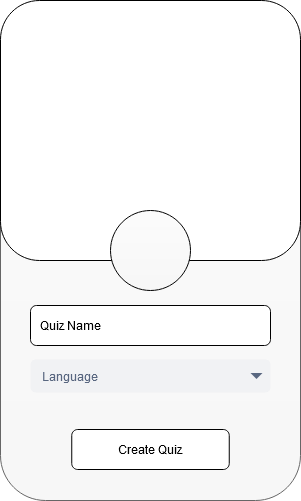
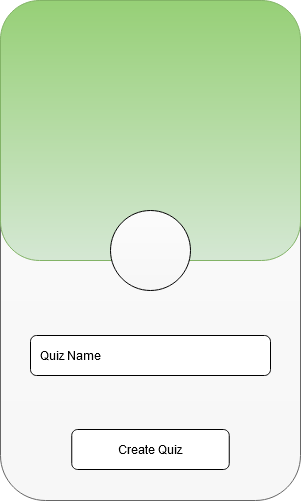
Added readme and changed a couple images

diff --git a/README.md b/README.md
@@ -1,1 +1,88 @@
-# sep2020-quizz-tim-evren
+# PUB Quiz - Web Application
+
+The Quizzer is a web application that can be used in bars, sports canteens and maybe even prisons to play quizzes as a team. A pub quiz, basically.
+
+---
+
+## Included libraries
+
+The following libraries are used by and included in the extension as-is:
+
+- jQuery: [http://jquery.com/](http://jquery.com/)
+- React: [https://reactjs.org/](https://reactjs.org/)
+- Webpack: [https://webpack.js.org/](https://webpack.js.org/)
+- Bootstrap from Twitter: [http://twitter.github.com/bootstrap/](http://twitter.github.com/bootstrap/)
+- Font Awesome: [http://fontawesome.io/](http://fontawesome.io/)
+
+---
+
+## Authors
+
+- Evren Kilic: [https://github.com/EvrenKilic](https://github.com/EvrenKilic)
+- Tim Beeren: [https://github.com/TBeeren](https://github.com/TBeeren)
+
+---
+
+## Documentation
+- REST API Specification: [REST_API_Specification.md](./doc/rest_api.md)
+- Web Socket Specification: [Web_Socket_Specification.md](./doc/websocket_specification.md)
+
+---
+
+## Wireframes 
+The wireframe are meant to demonstrates what interface elements that exist on key pages will look like.
+
+
+### Quiz Master
+The annotated wireframes can be seen in [the annotation folder](https://github.com/HANICA-DWA/sep2020-quizz-tim-evren/tree/main/assets/Master/img/annotations)
+
+<img src="./assets/Master/img/wireframes/Quiz_Master-Create.png"
+width="240" height="400" />
+<img src="./assets/Master/img/wireframes/Quiz_Master-Waiting-for-players.png"
+width="240" height="400" />
+<img src="./assets/Master/img/wireframes/Quiz_Master-Kick-or-Approve.png"
+width="240" height="400" />
+<img src="./assets/Master/img/wireframes/Quiz_Master-Start-Quiz.png"
+width="240" height="400" />
+<img src="./assets/Master/img/wireframes/Quiz_Master-Categories.png"
+width="240" height="400" />
+<img src="./assets/Master/img/wireframes/Quiz_Master-Start-Questions.png"
+width="240" height="400" />
+<img src="./assets/Master/img/wireframes/Quiz_Master-Question.png"
+width="240" height="400" />
+<img src="./assets/Master/img/wireframes/Quiz_Master-Approve-answers.png"
+width="240" height="400" />
+<img src="./assets/Master/img/wireframes/Quiz_Master-Next-Question.png"
+width="240" height="400" />
+<img src="./assets/Master/img/wireframes/Quiz_Master-Choose-next-question.png"
+width="240" height="400" />
+
+---
+
+### Team
+The annotated wireframes can be seen in [the annotation folder](https://github.com/HANICA-DWA/sep2020-quizz-tim-evren/tree/main/assets/Team/img/annotations)
+
+<img src="./assets/Team/img/wireframes/TeamApp-Sign%20Up.png"
+width="240" height="400" />
+<img src="./assets/Team/img/wireframes/TeamApp-Waiting.png"
+width="240" height="400" />
+<img src="./assets/Team/img/wireframes/TeamApp-Question.png"
+width="240" height="400" />
+<img src="./assets/Team/img/wireframes/TeamApp-Answer%20submitted.png"
+width="240" height="400" />
+<img src="./assets/Team/img/wireframes/TeamApp-Correct%20answer.png"
+width="240" height="400" />
+<img src="./assets/Team/img/wireframes/TeamApp-Incorrect%20answer.png"
+width="240" height="400" />
+
+---
+
+### Scoreboard
+The annotated wireframes can be seen in [the annotation folder](https://github.com/HANICA-DWA/sep2020-quizz-tim-evren/tree/main/assets/Score/img/annotations)
+
+<img src="./assets/Score/img/wireframes/ScoreboardApp-Intermission.png"
+width="540" height="360" />
+<img src="./assets/Score/img/wireframes/ScoreboardApp-Ongoing%20question.png"
+width="540" height="360" />
+
+---
